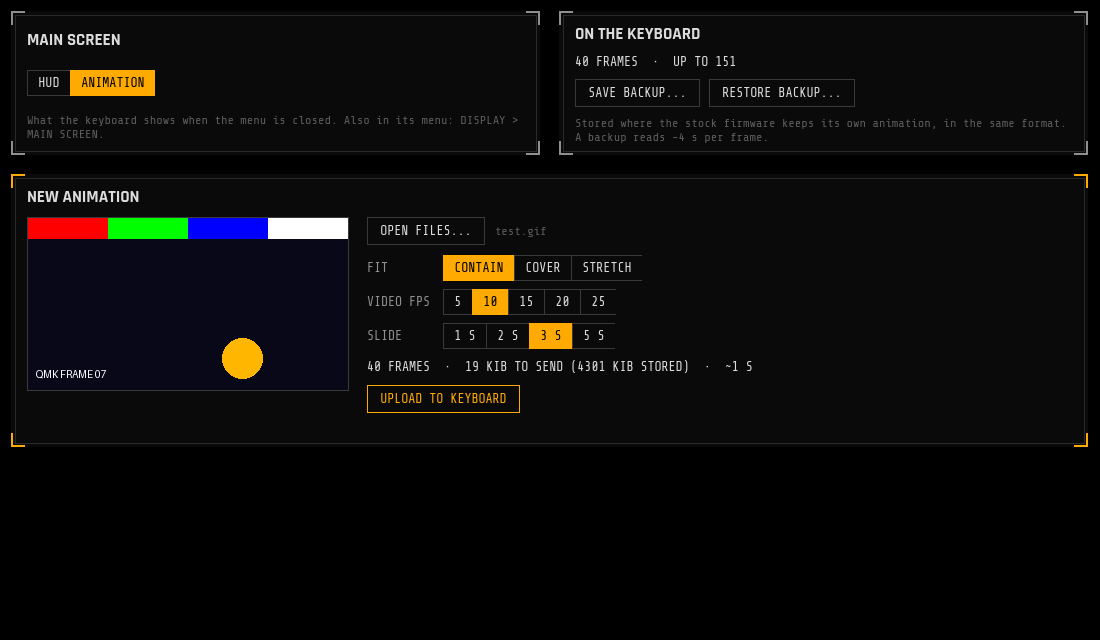
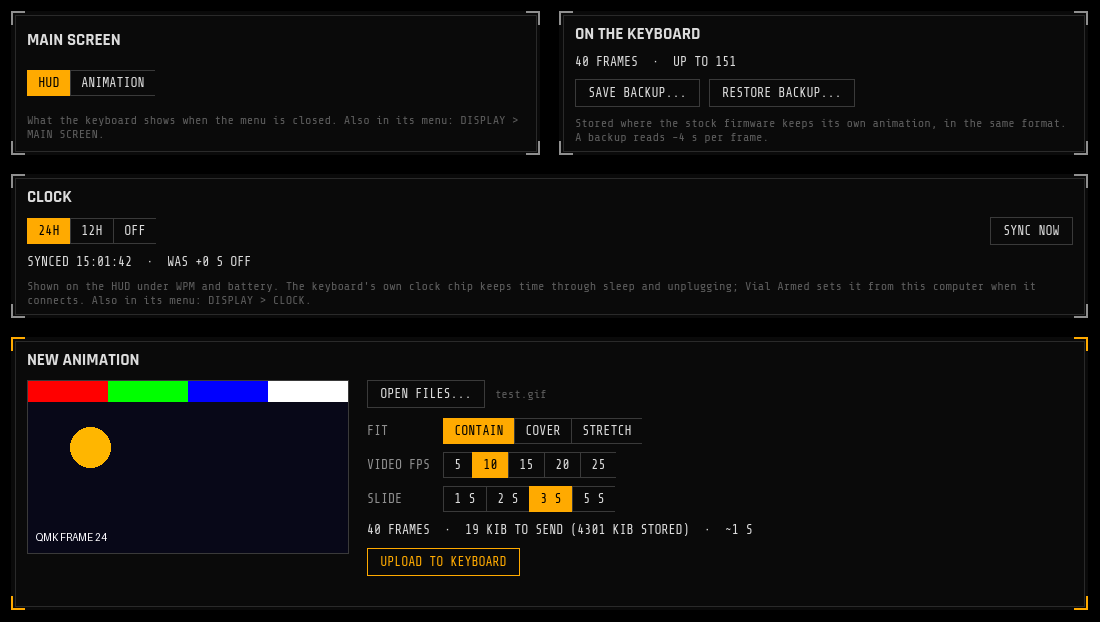
Screen: keyboard clock, synced on connect; Lighting / Themes: keep the active effect selected

diff --git a/src/main/python/editor/armed_screen.py b/src/main/python/editor/armed_screen.py
@@ -1,6 +1,8 @@
 # SPDX-License-Identifier: GPL-2.0-or-later
 # Screen page for qmk-armed keyboards with a display: your own picture, GIF or video instead of the HUD
+import logging
 import os
+from datetime import datetime
 
 from PyQt5.QtCore import Qt, QTimer, QThread, pyqtSignal
 from PyQt5.QtGui import QPixmap
@@ -10,12 +12,14 @@ from PyQt5.QtWidgets import QHBoxLayout, QVBoxLayout, QGridLayout, QLabel, QPush
 import screen_media
 from editor.basic_editor import BasicEditor
 from unlocker import Unlocker
-from protocol.qmk_armed import V_SCREEN, F_SCREEN, ArmedError
+from protocol.qmk_armed import V_SCREEN, V_CLOCK, F_SCREEN, F_CLOCK, ArmedError
 from vial_device import VialKeyboard
 from widgets.armed_controls import BracketFrame, Segmented
 from util import tr
 
 SCREEN_MODES = ("HUD", "ANIMATION")
+CLOCK_FORMATS = ("24H", "12H", "OFF")
+CLOCK_SYNC_MS = 10 * 60 * 1000
 FITS = ("CONTAIN", "COVER", "STRETCH")
 FPS_CHOICES = (5, 10, 15, 20, 25)
 UPLOAD_RATE = 26 * 1024  # bytes of stream per second over Vial's raw HID, measured
@@ -87,6 +91,29 @@ class ArmedScreen(BasicEditor):
         note.setObjectName("armedHint")
         note.setWordWrap(True)
         main.box.addWidget(note)
+
+        # CLOCK
+        self.clock = BracketFrame("CLOCK")
+        row = QHBoxLayout()
+        self.clock_fmt = Segmented(CLOCK_FORMATS)
+        self.clock_fmt.changed.connect(self.on_clock_format)
+        row.addWidget(self.clock_fmt)
+        row.addStretch(1)
+        self.btn_sync = QPushButton(tr("ArmedScreen", "SYNC NOW"))
+        self.btn_sync.clicked.connect(self.sync_clock)
+        row.addWidget(self.btn_sync)
+        self.clock.box.addLayout(row)
+        self.lbl_clock = QLabel()
+        self.clock.box.addWidget(self.lbl_clock)
+        note = QLabel(tr("ArmedScreen", "Shown on the HUD under WPM and battery. The keyboard's own clock chip keeps time "
+                                        "through sleep and unplugging; Vial Armed sets it from this computer when it connects. "
+                                        "Also in its menu: DISPLAY > CLOCK."))
+        note.setObjectName("armedHint")
+        note.setWordWrap(True)
+        self.clock.box.addWidget(note)
+        self.clock_timer = QTimer()
+        self.clock_timer.setInterval(CLOCK_SYNC_MS)
+        self.clock_timer.timeout.connect(self.sync_clock)
 
         # ON THE KEYBOARD
         stored = BracketFrame("ON THE KEYBOARD")
@@ -194,7 +221,8 @@ class ArmedScreen(BasicEditor):
         grid.setSpacing(18)
         grid.addWidget(main, 0, 0)
         grid.addWidget(stored, 0, 1)
-        grid.addWidget(new, 1, 0, 1, 2)
+        grid.addWidget(self.clock, 1, 0, 1, 2)
+        grid.addWidget(new, 2, 0, 1, 2)
         grid.setColumnStretch(0, 1)
         grid.setColumnStretch(1, 1)
         self.addLayout(grid)
@@ -212,8 +240,13 @@ class ArmedScreen(BasicEditor):
     def rebuild(self, device):
         super().rebuild(device)
         self.io = device.keyboard.armed if self.valid() else None
+        self.clock_timer.stop()
         if self.io is None:
             return
+        self.clock.setVisible(self.io.has(F_CLOCK))
+        if self.io.has(F_CLOCK):
+            self.sync_clock()
+            self.clock_timer.start()
         self.info = self.io.screen_info()
         w, h = (self.info.width, self.info.height) if self.info else (320, 172)
         self.preview.setFixedSize(w + 2, h + 2)
@@ -231,6 +264,7 @@ class ArmedScreen(BasicEditor):
 
     def load(self):
         self.mode.set_current(self.io.get(V_SCREEN))
+        self.clock_fmt.set_current(self.io.get(V_CLOCK))
         if self.info is None:
             self.lbl_stored.setText("—")
         elif self.info.frames:
@@ -241,6 +275,29 @@ class ArmedScreen(BasicEditor):
 
     def on_mode(self, idx):
         self.io.set(V_SCREEN, idx)
+
+    def on_clock_format(self, idx):
+        self.io.set(V_CLOCK, idx)
+
+    def sync_clock(self):
+        """ The keyboard counts whole seconds: send the time right after a second ticks over """
+        QTimer.singleShot(1000 - datetime.now().microsecond // 1000, self.send_clock)
+
+    def send_clock(self):
+        if self.io is None or not self.io.has(F_CLOCK) or self.job is not None:
+            return
+        try:
+            kb = self.io.clock_get()
+            now = datetime.now()
+            self.io.clock_set(now)
+        except Exception as e:
+            logging.warning("clock sync failed: %s", e)
+            self.lbl_clock.setText(tr("ArmedScreen", "NOT SYNCED"))
+            return
+        text = tr("ArmedScreen", "SYNCED {}").format(now.strftime("%H:%M:%S"))
+        if kb is not None:
+            text += tr("ArmedScreen", "  ·  WAS {:+.0f} S OFF").format((kb - now.replace(microsecond=0)).total_seconds())
+        self.lbl_clock.setText(text)
 
     # ---- new animation
 
@@ -416,5 +473,7 @@ class ArmedScreen(BasicEditor):
         self.btn_backup.setEnabled(idle and bool(self.info and self.info.frames))
         self.btn_restore.setEnabled(idle and self.info is not None)
         self.mode.setEnabled(idle)
+        self.clock_fmt.setEnabled(idle)
+        self.btn_sync.setEnabled(idle)
         for seg in (self.fit, self.fps, self.slide):
             seg.setEnabled(idle)

diff --git a/src/main/python/protocol/qmk_armed.py b/src/main/python/protocol/qmk_armed.py
@@ -2,18 +2,20 @@
 # qmk-armed protocol (command 0xAD): settings VIA / Vial don't cover, reported per keyboard
 import logging
 import struct
+from datetime import datetime, timedelta
 
 CMD_ARMED = 0xAD
 ARMED_PROTOCOL = 1
 
 SUB_INFO, SUB_LIST, SUB_GET, SUB_SET, SUB_SAVE, \
     SUB_SCREEN_INFO, SUB_SCREEN_BEGIN, SUB_SCREEN_DATA, SUB_SCREEN_END, SUB_SCREEN_READ, \
-    SUB_THEME_INFO, SUB_THEME_READ, SUB_THEME_WRITE, SUB_THEME_SAVE, SUB_THEME_REVERT = range(15)
+    SUB_THEME_INFO, SUB_THEME_READ, SUB_THEME_WRITE, SUB_THEME_SAVE, SUB_THEME_REVERT, \
+    SUB_CLOCK_GET, SUB_CLOCK_SET = range(17)
 L_EFFECTS, L_COLORS, L_STRIP_MODES, L_SLEEP, L_LEDS = range(5)
 L_COUNT = 5
 
 V_ENABLED, V_EFFECT, V_COLOR2, V_FN_COLOR, V_STRIP_MODE, V_STRIP_COLOR, V_STRIP_CAPS, V_SLEEP, \
-    V_HUE, V_SAT, V_VAL, V_SPEED, V_SCREEN = range(13)
+    V_HUE, V_SAT, V_VAL, V_SPEED, V_SCREEN, V_CLOCK = range(14)
 
 F_RGB_MATRIX = 1 << 0
 F_COLOR2 = 1 << 1
@@ -22,6 +24,7 @@ F_STRIP = 1 << 3
 F_SLEEP = 1 << 4
 F_SCREEN = 1 << 5
 F_THEMES = 1 << 6
+F_CLOCK = 1 << 7
 
 FEATURE_VALUES = {
     F_RGB_MATRIX: (V_ENABLED, V_EFFECT, V_HUE, V_SAT, V_VAL, V_SPEED),
@@ -30,6 +33,7 @@ FEATURE_VALUES = {
     F_STRIP: (V_STRIP_MODE, V_STRIP_COLOR, V_STRIP_CAPS),
     F_SLEEP: (V_SLEEP,),
     F_SCREEN: (V_SCREEN,),
+    F_CLOCK: (V_CLOCK,),
 }
 
 EFFECT_COLOR2 = 0x01
@@ -195,6 +199,20 @@ class QmkArmed:
     def save(self):
         """ Persists HSV and speed, which are applied without EEPROM writes """
         self._send(SUB_SAVE)
+
+    # ---- clock (F_CLOCK): local wall time in whole seconds, the keyboard knows no time zones
+
+    def clock_get(self):
+        """ Keyboard's local time as a naive datetime, None if it was never set """
+        data = self._send(SUB_CLOCK_GET)
+        if data[0] == UNHANDLED or not data[2]:
+            return None
+        return datetime(1970, 1, 1) + timedelta(seconds=struct.unpack_from("<I", data, 3)[0])
+
+    def clock_set(self, when):
+        secs = int(round((when - datetime(1970, 1, 1)).total_seconds()))
+        if self._send(SUB_CLOCK_SET, *struct.pack("<I", secs))[0] == UNHANDLED:
+            raise ArmedError("clock not set")
 
     # ---- screen animation (F_SCREEN), see docs/armed.md in qmk-armed
 

diff --git a/src/main/python/editor/armed_themes.py b/src/main/python/editor/armed_themes.py
@@ -560,6 +560,8 @@ class ArmedThemes(BasicEditor):
                 j += 1
             ranges.append((i, j))
             i = j
+        if not ranges:
+            return
         try:
             for a, b in ranges:
                 self.io.theme_write(self.slot, a, new[a:b])
@@ -1040,11 +1042,27 @@ class ArmedThemes(BasicEditor):
     def now(self):
         return int((time.monotonic() - self.t0) * 1000)
 
+    def follow_keyboard(self):
+        """ Open the slot that is lit now, if another page switched to a theme """
+        try:
+            self.io.reload_values()
+        except Exception:
+            return
+        effect = self.io.get(V_EFFECT)
+        if effect in self.info.modes and self.info.modes.index(effect) != self.slot:
+            self.flush_group()
+            self.slot = self.info.modes.index(effect)
+            self.cur = len(self.theme.layers) - 1
+            self.btn_center.setChecked(False)
+            self.refresh_all()
+
     def activate(self):
         if self.io is None:
             return
         if not self.loaded:
             self.load()
+        else:
+            self.follow_keyboard()
         self.groups = key_groups(self.leds, self.device.keyboard.layout)
         self.timer.start(1000 // FPS)
         self.set_shortcuts(True)

diff --git a/src/main/python/editor/armed_lighting.py b/src/main/python/editor/armed_lighting.py
@@ -324,7 +324,7 @@ class ArmedLighting(BasicEditor):
     def load_values(self):
         io = self.io
         self.block(True)
-        ids = [e.qmk_id for e in io.effects]
+        ids = [self.effects.item(row).data(Qt.UserRole) for row in range(self.effects.count())]
         effect = io.get(V_EFFECT)
         self.effects.setCurrentRow(ids.index(effect) if effect in ids else -1)
         if self.effects.currentItem():

diff --git a/README.md b/README.md
@@ -26,7 +26,7 @@ own picture, GIF or video on the keyboard's screen.
 | 🔦 **Fn overlay** | Pick the FN COLOR and hold **HOLD FN** to see which keys light up while Fn is held |
 | 📏 **Light bar** | Mode (WPM, WPM bar, battery, link, scanner, off), colour and Caps Lock alert, with a 9-LED preview |
 | 💤 **Device** | Auto-sleep timer, with the options the keyboard offers |
-| 🎞 **Screen** | Put a picture, GIF or video (with ffmpeg installed) on the keyboard's screen: fit, frame rate, slideshow, a preview of exactly what gets uploaded, progress with time left. Switch the main screen between the HUD and the animation; save and restore what's stored, including the stock animation |
+| 🎞 **Screen** | Put a picture, GIF or video (with ffmpeg installed) on the keyboard's screen: fit, frame rate, slideshow, a preview of exactly what gets uploaded, progress with time left. Switch the main screen between the HUD and the animation; save and restore what's stored, including the stock animation. Sets the keyboard's clock from this computer when it connects, 24H / 12H / off |
 | ⌨ **Everything from Vial** | Keymap and knobs on all layers, macros, tap dance, combos, key overrides, QMK settings, matrix tester |
 | 🧭 **Status** | Link and lock state in the top bar, qmk-armed version, Vial protocol, layer count and keyboard UID in the footer |
 
@@ -66,10 +66,11 @@ that Vial Armed probes on connect:
 |---|---|
 | `INFO` | `ARMD` magic, protocol and firmware version, **feature flags**, list sizes, maximum brightness |
 | `LIST` | effects (QMK id, flags, name), colour presets, light bar modes, sleep options, LEDs (matrix position, x/y, flags) |
-| `GET` / `SET` | lighting on/off, effect, hue, saturation, brightness, speed, COLOR 2, FN COLOR, light bar mode / colour / Caps alert, auto-sleep |
+| `GET` / `SET` | lighting on/off, effect, hue, saturation, brightness, speed, COLOR 2, FN COLOR, light bar mode / colour / Caps alert, auto-sleep, main screen, clock format |
 | `SAVE` | write hue / saturation / brightness / speed to EEPROM (sliders apply them live without wearing the flash) |
 | `SCREEN_*` | screen size and what's stored; upload an animation as a compressed stream (pipelined, ~26 KiB/s over Vial's 32-byte reports); read it back |
 | `THEME_*` | theme slots and their layout; read, write live, save, revert |
+| `CLOCK_*` | read and set the keyboard's local time, whole seconds |
 
 The feature flags decide what's shown: RGB Matrix opens the Lighting page and replaces the VialRGB one,
 COLOR 2, FN COLOR and LIGHT BAR add their panels, auto-sleep opens the Device page, a screen opens the Screen page, theme slots open the Themes page. Effect names, colours
